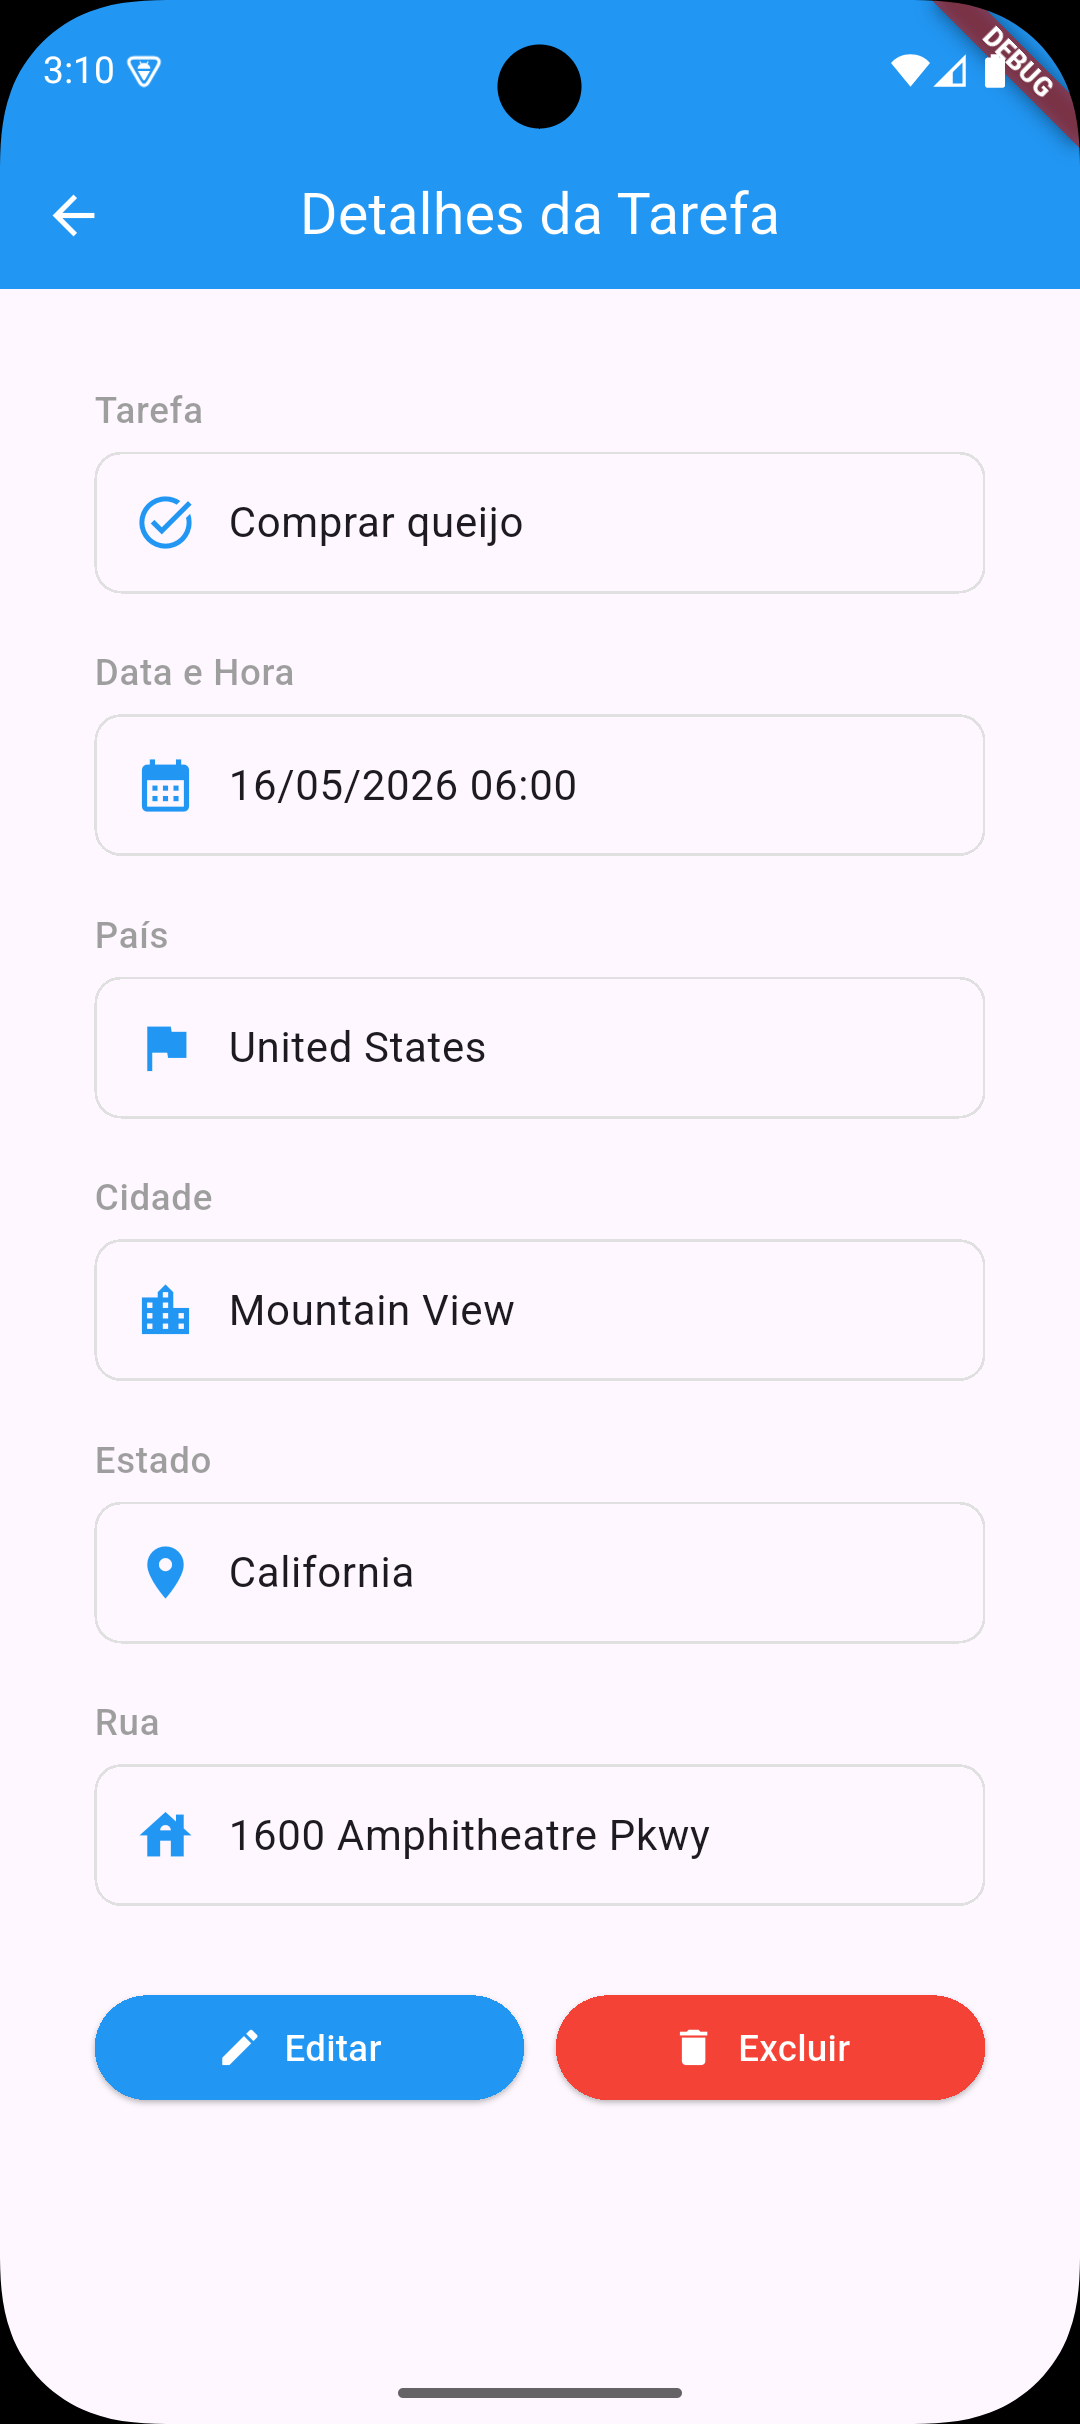
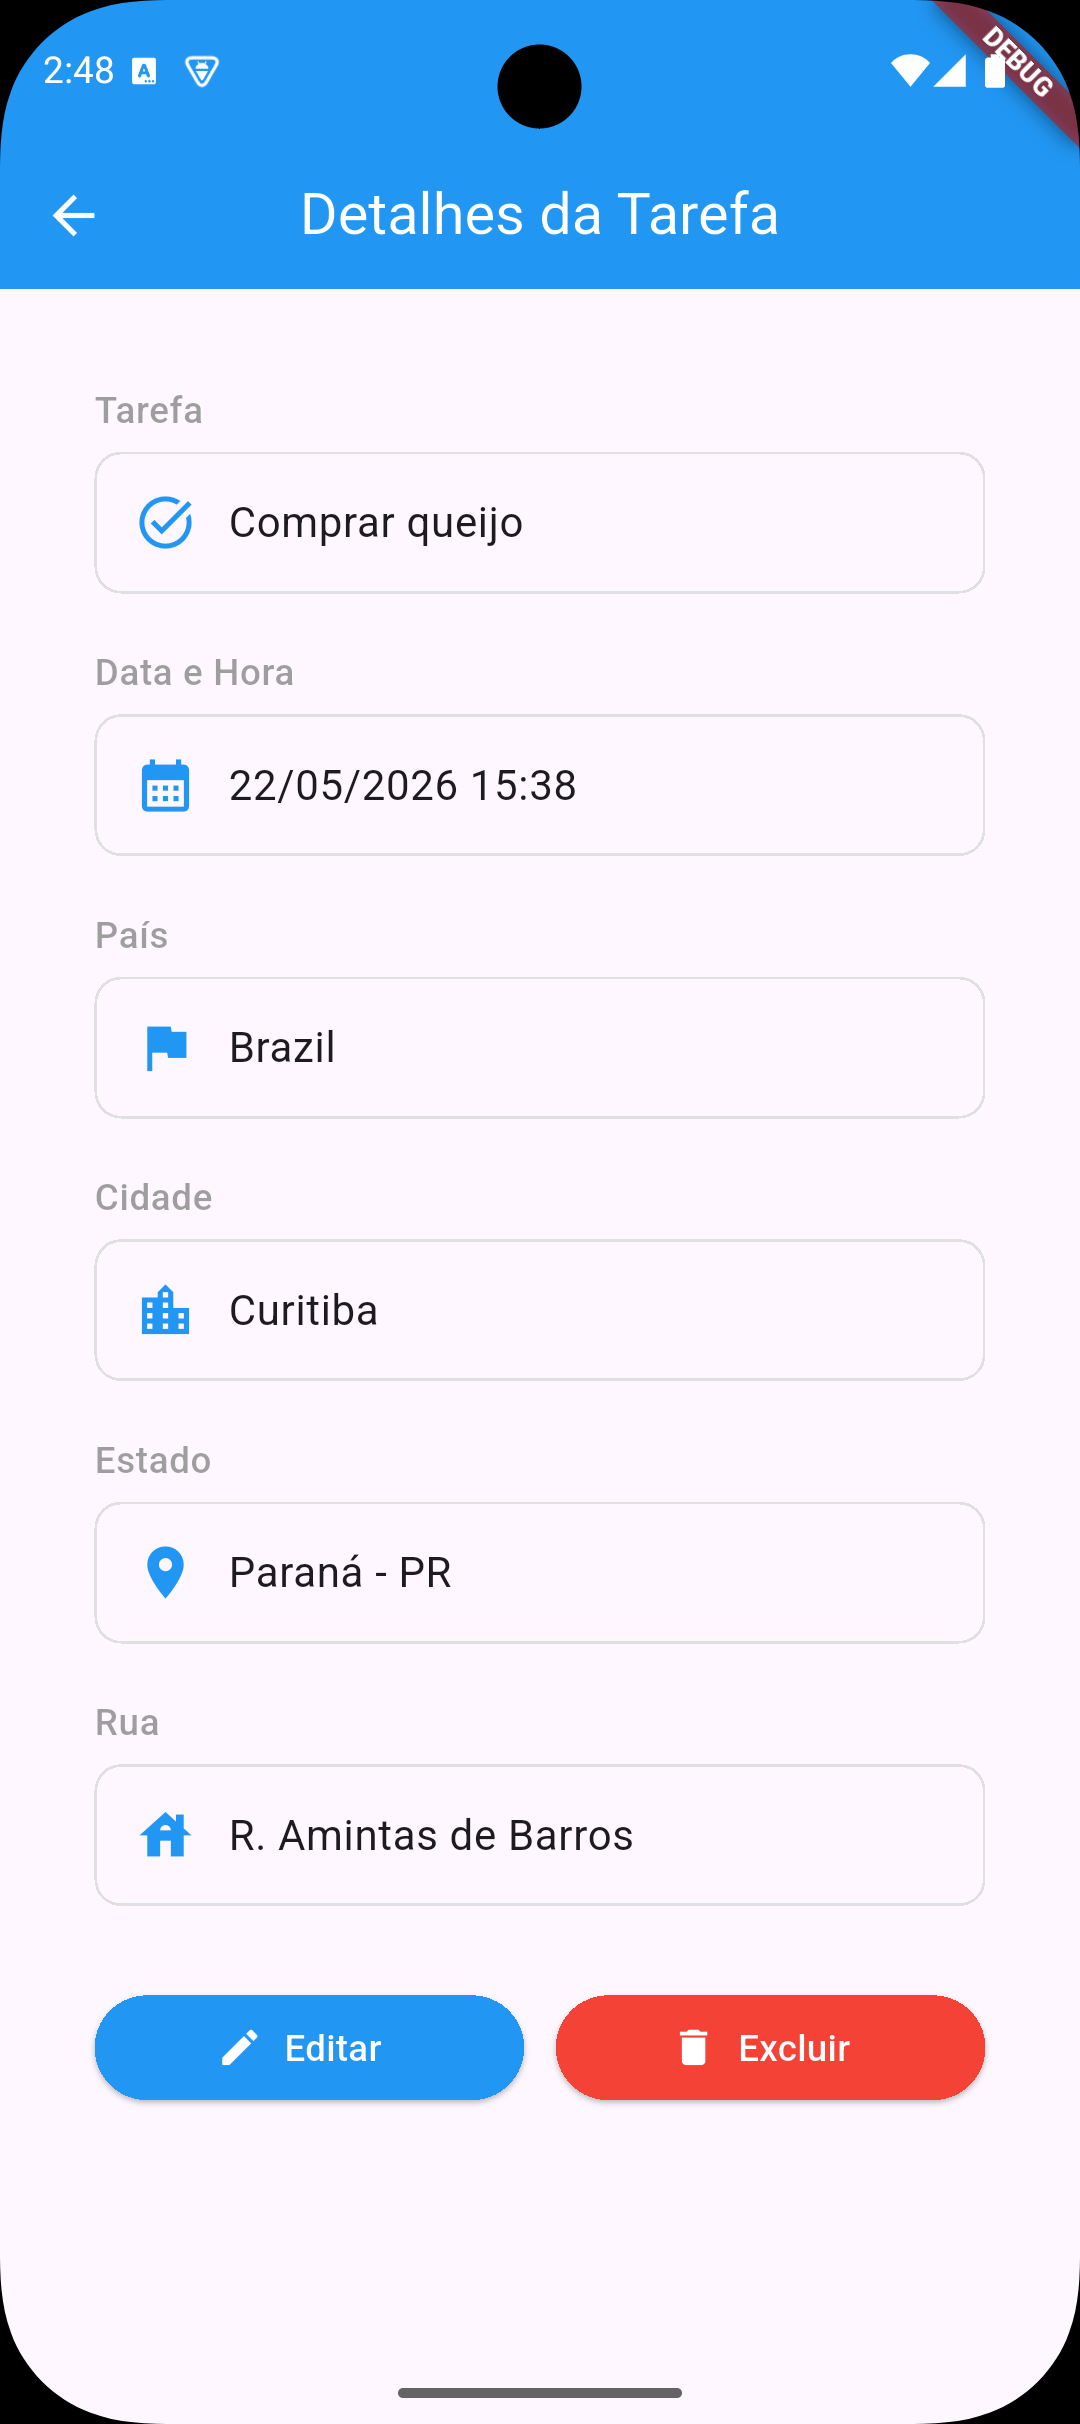
chore(update-readme): revise task creation and management instructions, update images

diff --git a/README.md b/README.md
@@ -85,7 +85,7 @@ O aplicativo pode ser executado em:
 1. Toque no botão **+** (flutuante) na tela principal
 2. Preencha o **nome da tarefa**
 3. Selecione a **data e hora** desejada
-4. Toque em **"Localização"** para usar sua posição atual (requer permissão de GPS)
+4. Toque em **"Toque para selecionar a localização"** para escolher uma forma de adicionar a localização da tarefa (requer permissão de GPS)
 5. Toque em **"Salvar"**
 
 ### Gerenciando Tarefas Existentes
@@ -115,57 +115,80 @@ Siga os passos abaixo para entender a navegação do app. Substitua as imagens d
    ***
 
 2. **Adicionar nova tarefa**
-   - Descrição: Ao pressionar o botão do canto inferior direito, seremos levados a tela de cadastro de uma nova tarefa. Podemos então preencher os campos e pressionar o botão "Salvar". Isso nos levará devolta a tela inicial, agora com a nova tarefa criada sendo listada.
+   - Descrição: Ao pressionar o botão do canto inferior direito, seremos levados a tela de cadastro de uma nova tarefa. Podemos então preencher os campos de Nome da tarefa, selecionar uma data futura para a tarefa, selecionar como iremos fornecer a localização da tarefa e pressionar o botão "Salvar". Isso nos levará devolta a tela inicial, agora com a nova tarefa criada sendo listada. A Tarefa precisa ter um nome, uma data e uma localização definida para que o botão "Salvar" fique habilitado. Podemos escolher a forma de indicar a localização através de 3 formatos que serão demonstrados logo a seguir.
+
+   - Forma 1 - Pesquisando um endereço: Ao preencher o campo "Pesquisar endereço" com alguma cidade, estado, pais, rua, ou avenida e clicar no icone da lupa, a aplicação ira disparar o serviço de pesquisa e irá nos trazer os valores para serem preenchidos automaticamente. Neste formato, apenas o campo Rua fica disponível para alteração.
 
    <p align="center">
-      <img src="assets/images/Tela_Cadastro_Tarefa.png" height="550" alt="Tela cadastro tarefas" />&nbsp;&nbsp;&nbsp;&nbsp;
-      <img src="assets/images/Tela_Cadastro_Tarefa_Preenchida.png" height="550" alt="Tela cadastro preenchida" />&nbsp;&nbsp;&nbsp;&nbsp;
-      <img src="assets/images/Tela_Listagem_Tarefa.png" height="550" alt="Tela listagem" />
+      <img src="assets/images/Tela_Criar_Tarefa.png" height="550" alt="Tela cadastro tarefas" />&nbsp;&nbsp;&nbsp;&nbsp;
+      <img src="assets/images/Tela_Seleciona_Localizacao.png" height="550" alt="Tela cadastro preenchida" />&nbsp;&nbsp;&nbsp;&nbsp;
+      <img src="assets/images/Tela_Pesquisa_Endereco.png" height="550" alt="Tela listagem" />&nbsp;&nbsp;&nbsp;&nbsp;
+      <img src="assets/images/Tela_Criar_Tarefa_Preenchida_PesquisarEnde.png" height="550" alt="Tela listagem"
+   </p>
+
+   ***
+   - Forma 2 - Usando o GPS do dispositivo: Ao pressionar o botão "Usar minha localização atual (GPS)", o aplicativo pedirá a permissão do usuário para utilizar os recursos de GPS para pegar a localização e preencher os campos automaticamente. Nesta forma, apenas o campo Rua fica disponível para alteração.
+
+   <p align="center">
+      <img src="assets/images/Tela_Criar_Tarefa.png" height="550" alt="Tela cadastro tarefas" />&nbsp;&nbsp;&nbsp;&nbsp;
+      <img src="assets/images/Tela_Seleciona_Localizacao.png" height="550" alt="Tela cadastro preenchida" />&nbsp;&nbsp;&nbsp;&nbsp;
+      <img src="assets/images/Tela_Criar_Tarefa_GPS.png" height="550" alt="Tela listagem" />&nbsp;&nbsp;&nbsp;&nbsp;
+      <img src="assets/images/Tela_Criar_Tarefa_Preenchida_GPS.png" height="550" alt="Tela listagem"
+   </p>
+
+   ***
+   - Forma 3 - Fornecendo dados de localização manualmente: Ao pressionar o botão "Digitar o endereço manualmente", o aplicativo irá disponibilizar os campos de localização em branco (⚠️ irá limpar os campos se ja tiverem sido preenchidos anteriormente ⚠️), permitindo o usuário preencher os campos com a sua localização. PS: Se for preencher o campo "Estado / UF" com um estado ou UF do Brasil, certifique-se de preencher o nome do estado com a acentuação correta (se houver) ou com uma UF existente.
+
+   <p align="center">
+      <img src="assets/images/Tela_Criar_Tarefa.png" height="550" alt="Tela cadastro tarefas" />&nbsp;&nbsp;&nbsp;&nbsp;
+      <img src="assets/images/Tela_Seleciona_Localizacao.png" height="550" alt="Tela cadastro preenchida" />&nbsp;&nbsp;&nbsp;&nbsp;
+      <img src="assets/images/Tela_Criar_Tarefa_Localizacao_Manual.png" height="550" alt="Tela listagem" />&nbsp;&nbsp;&nbsp;&nbsp;
+      <img src="assets/images/Tela_Criar_Tarefa_Localizacao_Manual_Preenchida.png" height="550" alt="Tela listagem"
    </p>
 
    ***
 
-3. **Detalhes da tarefa**
-   - Descrição: Ao pressionar no card da tarefa, na tela de listagem de tarefas, somos levados a tela de detalhamento da tarefa, contendo informações completas da tarefa selecionada, incluindo localização e opções de edição e exclusão.
+3. **Listagem e pesquisa de tarefas**
+   - Descrição: Após criarmos as tarefas da operação anterior, a tela de listagem de tarefas ira ser preenchida com as novas adições. Se olharmos para o topo da tela de listagem, veremos um campo onde nos e permitido fazer a pesquisa de tarefas pelo título delas. Vamos pesquisar a tarefa "Comprar presunto", apenas passando algum conteudo existente no título da tarefa.
 
    <p align="center">
-      <img src="assets/images/Tela_Listagem_Tarefa.png" height="550" alt="Tela listagem" />&nbsp;&nbsp;&nbsp;&nbsp;
+      <img src="assets/images/Tela_Listagem_Tarefas_Preenchida.png" height="550" alt="Tela listagem maior" />&nbsp;&nbsp;&nbsp;&nbsp;
+      <img src="assets/images/Tela_Listagem_Tarefas_Pesquisar.png" height="550" alt="Pesquisa de tarefa" />
+   </p>
+
+   ***
+
+4. **Detalhes da tarefa**
+   - Descrição: Ao pressionar no card da tarefa, na tela de listagem de tarefas, somos levados a tela de detalhamento da tarefa, contendo informações completas da tarefa selecionada, incluindo localização e opções de edição e exclusão. Vamos selecionar a tarefa "Comprar queijo" e ver seus detalhes.
+
+   <p align="center">
+      <img src="assets/images/Tela_Listagem_Tarefas_Preenchida.png" height="550" alt="Tela listagem" />&nbsp;&nbsp;&nbsp;&nbsp;
       <img src="assets/images/Tela_Detalhamento_Tarefa.png" height="550" alt="Tela detalhes tarefa" />
    </p>
 
    ***
 
-4. **Edição de tarefa**
-   - Descrição: Ainda na tela de detalhamento da tarefa, pressione o botão "Editar". Seremos levados a tela de edição da tarefa selecionada. Alteramos os campos desejados e pressionamos o botão "Salvar alterações" e então somos levados a tela de listagem de tarefas, agora com a tarefa contendo as informações atualizadas.
+5. **Edição de tarefa**
+   - Descrição: Ainda na tela de detalhamento da tarefa, pressione o botão "Editar". Seremos levados a tela de edição da tarefa selecionada. Alteramos os campos desejados e pressionamos o botão "Salvar alterações" e então somos levados a tela de listagem de tarefas, contendo a tarefa alterada. O ultimo print foi do detalhamento da tarefa alterada para fins de demonstrar a alteração das informações de forma mais explícita.
 
    <p align="center">
       <img src="assets/images/Tela_Detalhamento_Tarefa.png" height="550" alt="Tela detalhes tarefa" />&nbsp;&nbsp;&nbsp;&nbsp;
-      <img src="assets/images/Tela_Editar_Tarefa.png" height="550" alt="Tela editar tarefa" />&nbsp;&nbsp;&nbsp;&nbsp;
-      <img src="assets/images/Tela_Editar_Tarefa_Alterada.png" height="550" alt="Tela editar tarefa modificada" />
-      <img src="assets/images/Tela_Listagem_Tarefa_Alterada.png" height="550" alt="Tarefa alterada" />
-   </p>
-
-   ***
-
-5. **Listagem e pesquisa de tarefas**
-   - Descrição: Após criarmos mais algumas tarefas, a tela de listagem de tarefas ira ser preenchida com as novas adições. Se olharmos para o topo da tela de listagem, veremos um campo onde nos e permitido fazer a pesquisa de tarefas pelo título delas. Vamos pesquisar a tarefa "Fazer trabalho de flutter e dart", apenas passando algum conteudo existente no título da tarefa.
-
-   <p align="center">
-      <img src="assets/images/Tela_Listagem_Tarefas_Preenchida.png" height="550" alt="Tela listagem maior" />&nbsp;&nbsp;&nbsp;&nbsp;
-      <img src="assets/images/Tela_Listagem_Tarefas_Pesquisa.png" height="550" alt="Pesquisa de tarefa" />
+      <img src="assets/images/Tela_Edicao_Tarefa_Antes.png" height="550" alt="Tela editar tarefa" />&nbsp;&nbsp;&nbsp;&nbsp;
+      <img src="assets/images/Tela_Edicao_Tarefa_PesquisaEnde.png" height="550" alt="Tela editar tarefa modificada" />&nbsp;&nbsp;&nbsp;&nbsp;
+      <img src="assets/images/Tela_Edicao_Tarefa_Depois.png" height="550" alt="Tarefa alterada" />&nbsp;&nbsp;&nbsp;&nbsp;
+      <img src="assets/images/Tela_Detalhamento_Tarefa_Alterada.png" height="550" alt="Tarefa alterada" />
    </p>
 
    ***
 
 6. **Excluir tarefa**
-   - Descrição: Para excluir uma tarefa, basta pressionar o icone de lixeira presente no card da tarefa que deseja excluir e confirmar a exclusão. Esta funcionalidade tambem esta presente na tela de detalhamento de tarefa, onde o botão "Excluir" possui o mesmo efeito. Aqui, foi excluida a tarefa "Fazer trabalho de flutter e dart" através da tela de listagem e a tarefa "Planejar viagem", através da tela de detalhamento da tarefa.
+   - Descrição: Para excluir uma tarefa, basta pressionar o icone de lixeira presente no card da tarefa que deseja excluir e confirmar a exclusão. Esta funcionalidade tambem esta presente na tela de detalhamento de tarefa, onde o botão "Excluir" possui o mesmo efeito. Aqui, foi excluida a tarefa "Ir para a academia" através da tela de detalhamento e a tarefa "Comprar presunto", através da tela de listagem.
 
    <p align="center">
-      <img src="assets/images/Tela_Listagem_Tarefas_Preenchida.png" height="550" alt="Tela listagem maior" />&nbsp;&nbsp;&nbsp;&nbsp;
-      <img src="assets/images/Tela_Confirma_Exlusao.png" height="550" alt="Confirma exclusão tarefa" />&nbsp;&nbsp;&nbsp;&nbsp;
-      <img src="assets/images/Tela_Listagem_Tarefas_Excluida.png" height="550" alt="Tarefa removida" />
-      <img src="assets/images/Tela_Detalhamento_Tarefa_Exclusao.png" height="550" alt="Tarefa detalhada removida" />&nbsp;&nbsp;&nbsp;&nbsp;
-      <img src="assets/images/Tela_Listagem_Tarefas_Exclusao_v2.png" height="550" alt="Tarefa removida" />
+      <img src="assets/images/Tela_Detalhamento_Tarefa_Excluir.png" height="550" alt="Tela listagem maior" />&nbsp;&nbsp;&nbsp;&nbsp;
+      <img src="assets/images/Tela_Listagem_Tarefa_Excluida.png" height="550" alt="Confirma exclusão tarefa" />&nbsp;&nbsp;&nbsp;&nbsp;
+      <img src="assets/images/Tela_Listagem_Tarefa_Excluindo.png" height="550" alt="Tarefa removida" />&nbsp;&nbsp;&nbsp;&nbsp;
+      <img src="assets/images/Tela_Listagem_Tarefas_Restante.png" height="550" alt="Tarefa detalhada removida" />
    </p>
 
    ***
@@ -178,22 +201,47 @@ lib/
 ├── main.dart                   # Ponto de entrada
 ├── core/                       # Componentes compartilhados
 │   ├── router/                 # Roteamento do app
+│   │   ├── app_routes.dart
+│   │   ├── export_routes.dart
+│   │   └── route_manager.dart
 │   ├── services/               # Serviços utilitários
-│   │   ├── location_service.dart    # Serviço de localização
-│   │   └── brazil_date_format.dart  # Formatação de datas BR
+│   │   ├── brazil_date_format.dart  # Formatação de datas BR
+│   │   └── location_service.dart    # Serviço de localização
+│   ├── utils/                  # Utilitários gerais
+│   │   └── state_mapper.dart
 │   └── widgets/                # Widgets reutilizáveis
+│       ├── app_layout.dart
+│       ├── custom_form_field.dart
+│       ├── details_field.dart
+│       ├── form_field_button.dart
+│       ├── safe_snack_bar.dart
+│       └── show_delete_confirmation.dart
 ├── features/                   # Funcionalidades do app
 │   └── tasks/                  # Módulo de tarefas
+│       ├── tasks_features.dart  # Barrel exports do módulo
 │       ├── data/               # Camada de dados
 │       │   ├── task_repository.dart  # Repositório de tarefas
-│       │   └── task_storage.dart     # Armazenamento (memória)
+│       │   └── task_storage.dart     # Armazenamento em memória
 │       ├── domain/             # Camada de domínio
 │       │   ├── task.dart            # Modelo Task
 │       │   └── geo_location.dart    # Modelo GeoLocation
 │       └── presentation/       # Camada de apresentação
 │           ├── helpers/        # Utilitários de UI
+│           │   ├── date_time_picker.dart
+│           │   ├── delete_task_helper.dart
+│           │   ├── location_picker.dart
+│           │   └── show_location_option.dart
 │           ├── pages/          # Páginas/screens
+│           │   ├── task_create_page.dart
+│           │   ├── task_details_page.dart
+│           │   ├── task_update_page.dart
+│           │   └── tasks_list_page.dart
 │           └── widgets/        # Widgets específicos
+│               ├── card_tasks.dart
+│               ├── no_tasks.dart
+│               ├── task_form.dart
+│               ├── task_update_form.dart
+│               └── tasks_list.dart
 ```
 
 ### Arquitetura